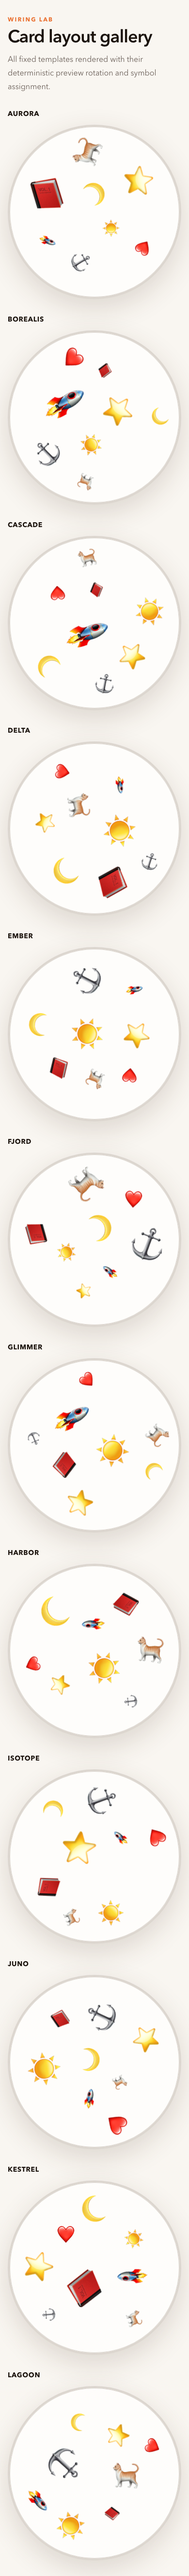
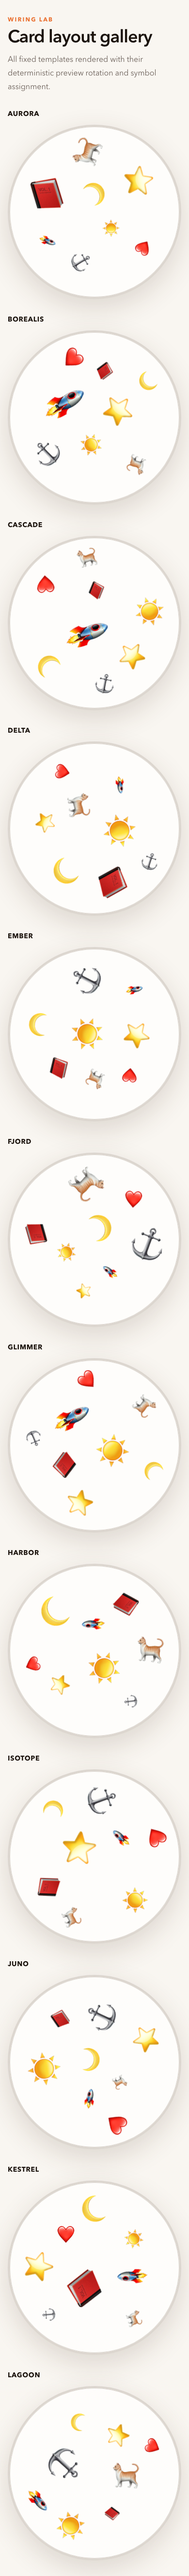
Refine four card layouts

diff --git a/lib/card-layout.ts b/lib/card-layout.ts
@@ -60,9 +60,9 @@ export const CARD_LAYOUT_TEMPLATES: readonly CardLayoutTemplate[] = [
     [0.193, 0.668, 0.155, -112, 0.234],
     [0.282, 0.173, 0.135, -5, 0.204],
     [-0.729, 0.001, 0.118, -22, 0.178],
-    [0.271, -0.71, 0.102, 26, 0.17],
-    [0.663, 0.372, 0.088, 136, 0.17],
-    [-0.461, -0.301, 0.076, -15, 0.17],
+    [-0.166, -0.736, 0.11, 26, 0.17],
+    [0.697, -0.258, 0.105, 136, 0.17],
+    [-0.461, -0.301, 0.095, -15, 0.17],
   ]),
   template('cascade', [
     [-0.153, 0.075, 0.2, 52, 0.302],
@@ -70,9 +70,9 @@ export const CARD_LAYOUT_TEMPLATES: readonly CardLayoutTemplate[] = [
     [0.19, 0.558, 0.155, -12, 0.234],
     [-0.708, 0.162, 0.135, -144, 0.204],
     [-0.263, 0.687, 0.118, 42, 0.178],
-    [0.303, -0.697, 0.102, 19, 0.17],
-    [-0.199, -0.53, 0.088, -155, 0.17],
-    [0.202, -0.315, 0.076, 52, 0.17],
+    [0.303, -0.697, 0.11, 19, 0.17],
+    [-0.27, -0.69, 0.105, -155, 0.17],
+    [0.202, -0.315, 0.095, 52, 0.17],
   ]),
   template('delta', [
     [0.293, -0.029, 0.2, 159, 0.302],
@@ -109,10 +109,10 @@ export const CARD_LAYOUT_TEMPLATES: readonly CardLayoutTemplate[] = [
     [0.352, 0.215, 0.175, 177, 0.265],
     [-0.035, -0.695, 0.155, 31, 0.234],
     [0.263, -0.301, 0.135, 20, 0.204],
-    [-0.67, 0.341, 0.118, -61, 0.178],
-    [-0.756, -0.073, 0.102, -9, 0.17],
-    [0.294, 0.701, 0.088, 121, 0.17],
-    [0.709, -0.12, 0.076, -39, 0.17],
+    [-0.42, 0.62, 0.118, -61, 0.178],
+    [-0.756, -0.073, 0.11, -9, 0.17],
+    [0.294, 0.701, 0.105, 121, 0.17],
+    [0.709, -0.12, 0.095, -39, 0.17],
   ]),
   template('harbor', [
     [-0.216, -0.026, 0.2, -128, 0.302],
@@ -127,12 +127,12 @@ export const CARD_LAYOUT_TEMPLATES: readonly CardLayoutTemplate[] = [
   template('isotope', [
     [0.17, 0.123, 0.2, -21, 0.302],
     [-0.172, 0.643, 0.175, -100, 0.265],
-    [-0.077, -0.691, 0.155, -127, 0.234],
+    [-0.38, -0.59, 0.155, -127, 0.234],
     [0.569, -0.272, 0.135, 101, 0.204],
     [0.38, 0.616, 0.118, 67, 0.178],
-    [-0.749, 0.127, 0.102, -23, 0.17],
-    [0.381, -0.658, 0.088, -101, 0.17],
-    [-0.356, 0.164, 0.076, 94, 0.17],
+    [-0.749, 0.127, 0.11, -23, 0.17],
+    [0.381, -0.658, 0.105, -101, 0.17],
+    [-0.356, 0.164, 0.095, 94, 0.17],
   ]),
   template('juno', [
     [-0.615, 0.027, 0.2, 87, 0.302],

diff --git a/docs/architecture/card-layout-templates.md b/docs/architecture/card-layout-templates.md
@@ -40,10 +40,10 @@ then protected by unit tests that require:
 - collision-radius clearance from the circular card edge;
 - the same invariants after non-right-angle whole-template rotations.
 
-Small reviewed coordinate corrections may be recorded in the generator's
-`CURATED_ADJUSTMENTS` map when browser glyph-box checks need more clearance.
-Those corrections are part of the reproducible output and must pass the same
-numerical validation.
+Small reviewed coordinate and size corrections may be recorded in the
+generator's `CURATED_ADJUSTMENTS` and `CURATED_SIZE_OVERRIDES` maps when browser
+review finds a sparse quadrant or a weak size hierarchy. Those corrections are
+part of the reproducible output and must pass the same numerical validation.
 
 To replace or add a template, update the generator's stable template names and
 seeds, inspect the rendered candidates, copy the chosen numerical output, and
